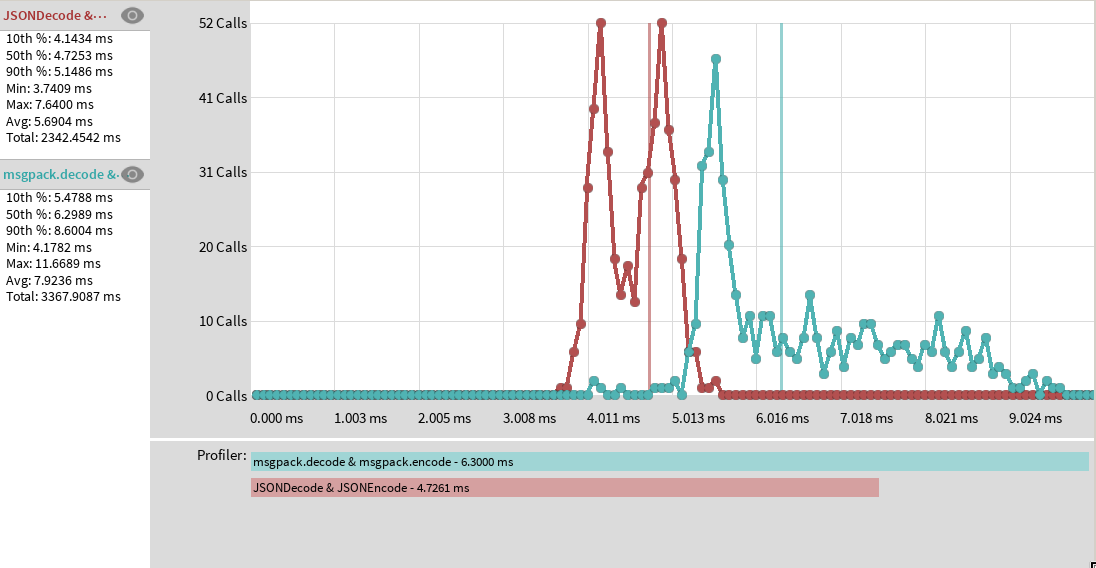
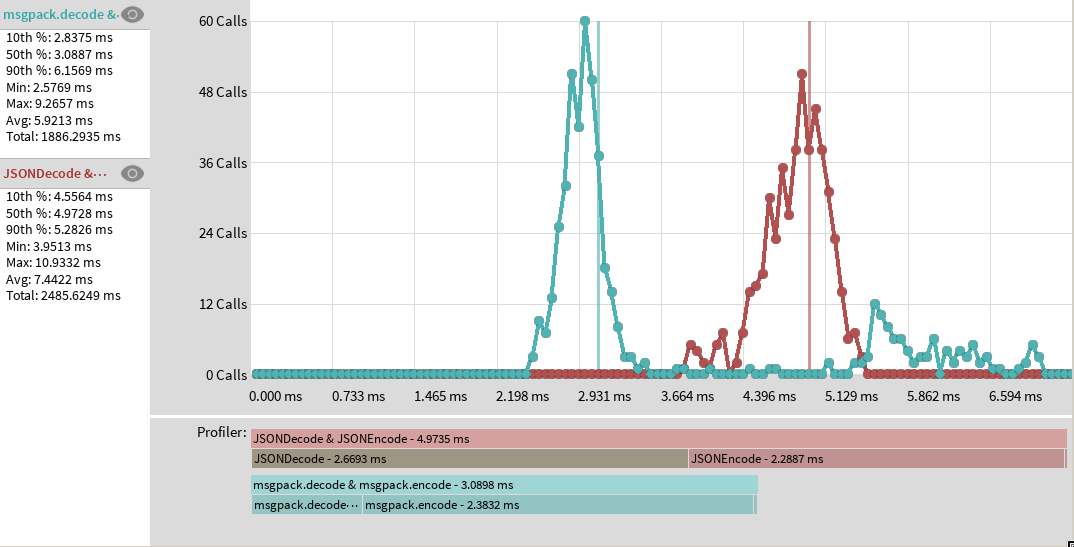
Updates benchmark results

diff --git a/README.md b/README.md
@@ -65,8 +65,8 @@ To benchmark module's encoding performance same data is used as previously.
 It is first decoded as table structure then both `msgpack.encode` and `JSONEncode` encode it with the following results:
 ![Figure with JSONEncode and msgpack.encode benchmark results](./assets/encode-benchmark.png)
 
-MessagePack encoder currently slower than JSONEncode, although they remain pretty close.
-Here is another benchmark which combines both decoding and encoding steps:
+MessagePack encoder is bit less consistent as `JSONEncode`, but on average `msgpack.encode` is as performant as `JSONEncode`.
+Here is another benchmark which combines both decoding and encoding steps and as it can be seen, thanks to much greater `msgpack.decode` speed, both methods together perform better than built-in `JSONEncode` and `JSONDecode`:
 ![Figure with "JSONEncode & JSONDecode" and "msgpack.encode & msgpack.decode" benchmark results](./assets/decode-encode-benchmark.png)
 
 For more details on the benchmark setup, look into `./benchmark` directory.
